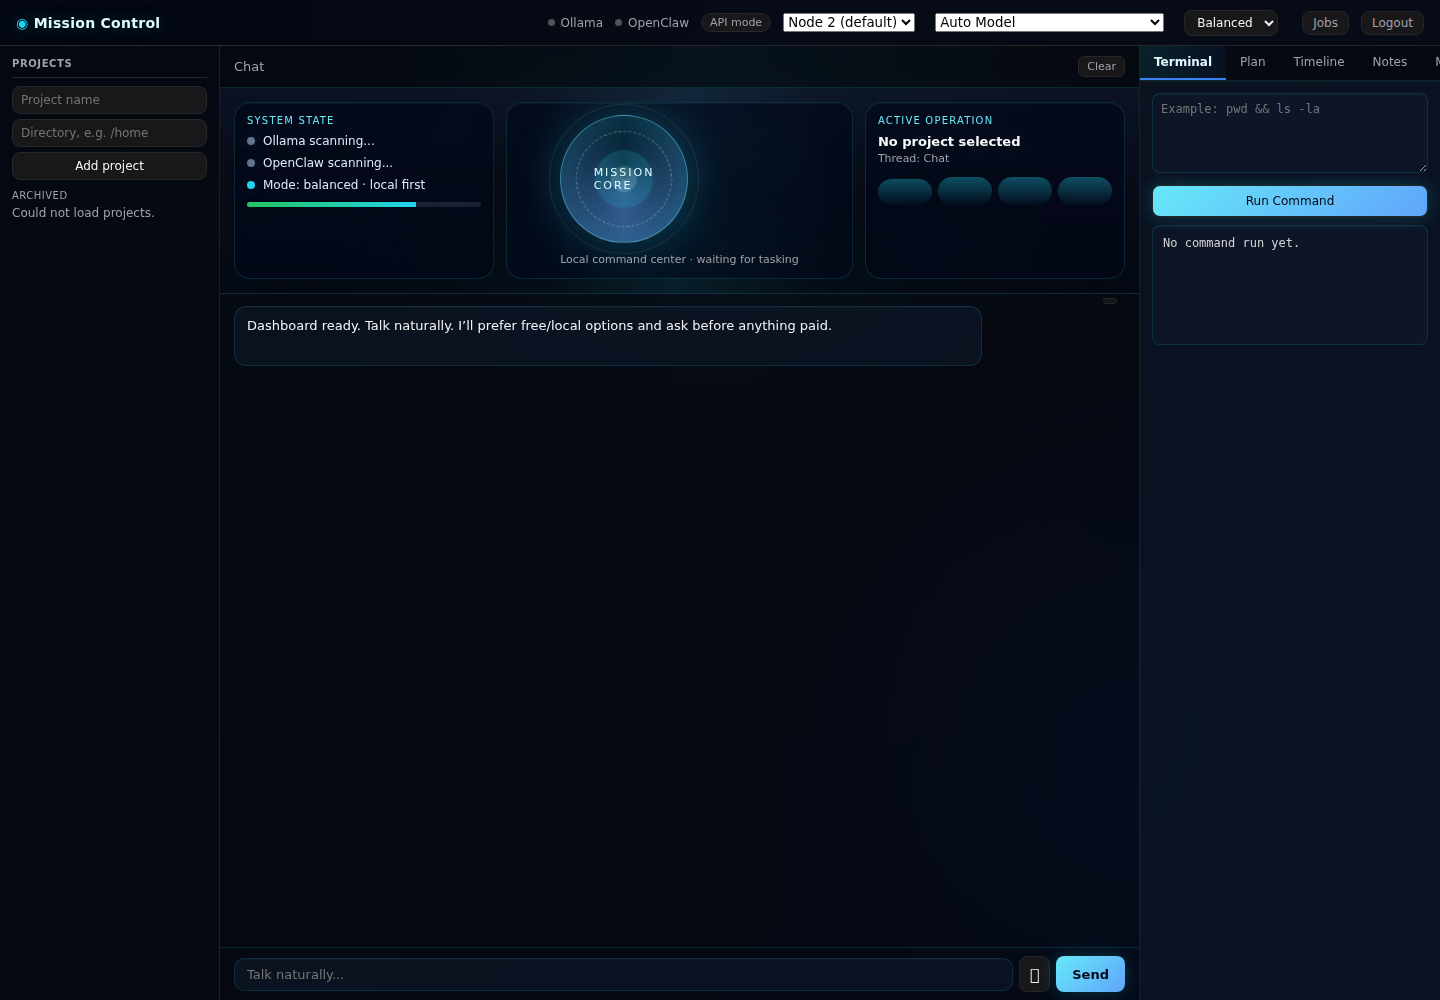
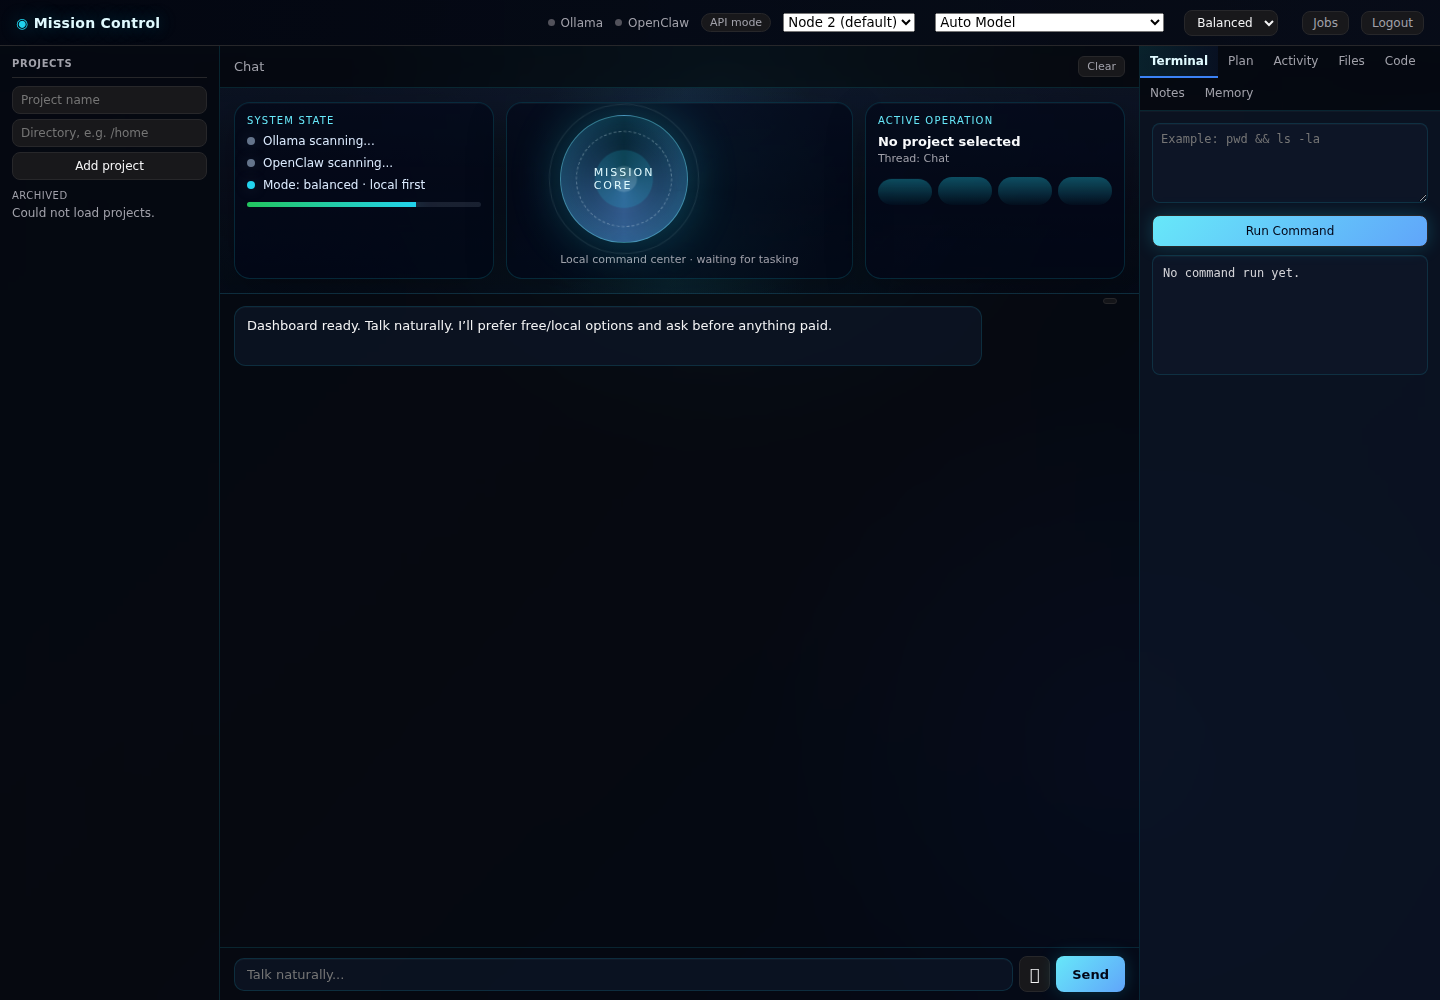
Portfolio: refresh Mission Control UI proof

Changed region(s): [[0.7812, 0.186, 1.0, 0.279], [0.7812, 0.031, 0.9375, 0.155]]

diff --git a/projects/ai-mission-control.md b/projects/ai-mission-control.md
@@ -20,7 +20,7 @@ The goal was to build a mission-control interface that keeps chat natural while 
 
 ![Mission Control HUD Interface](../assets/mission-control-hud-2026-05-13.png)
 
-_Visual proof: updated HUD-style operator cockpit with status signals, active operation context, and Mission Core visual layer._
+_Visual proof: updated HUD-style operator cockpit with status signals, active operation context, Mission Core visual layer, activity, files, and code-preview tabs._
 
 ## Key Design Decisions
 - **Dashboard-first UX**: operator cockpit, not terminal-only